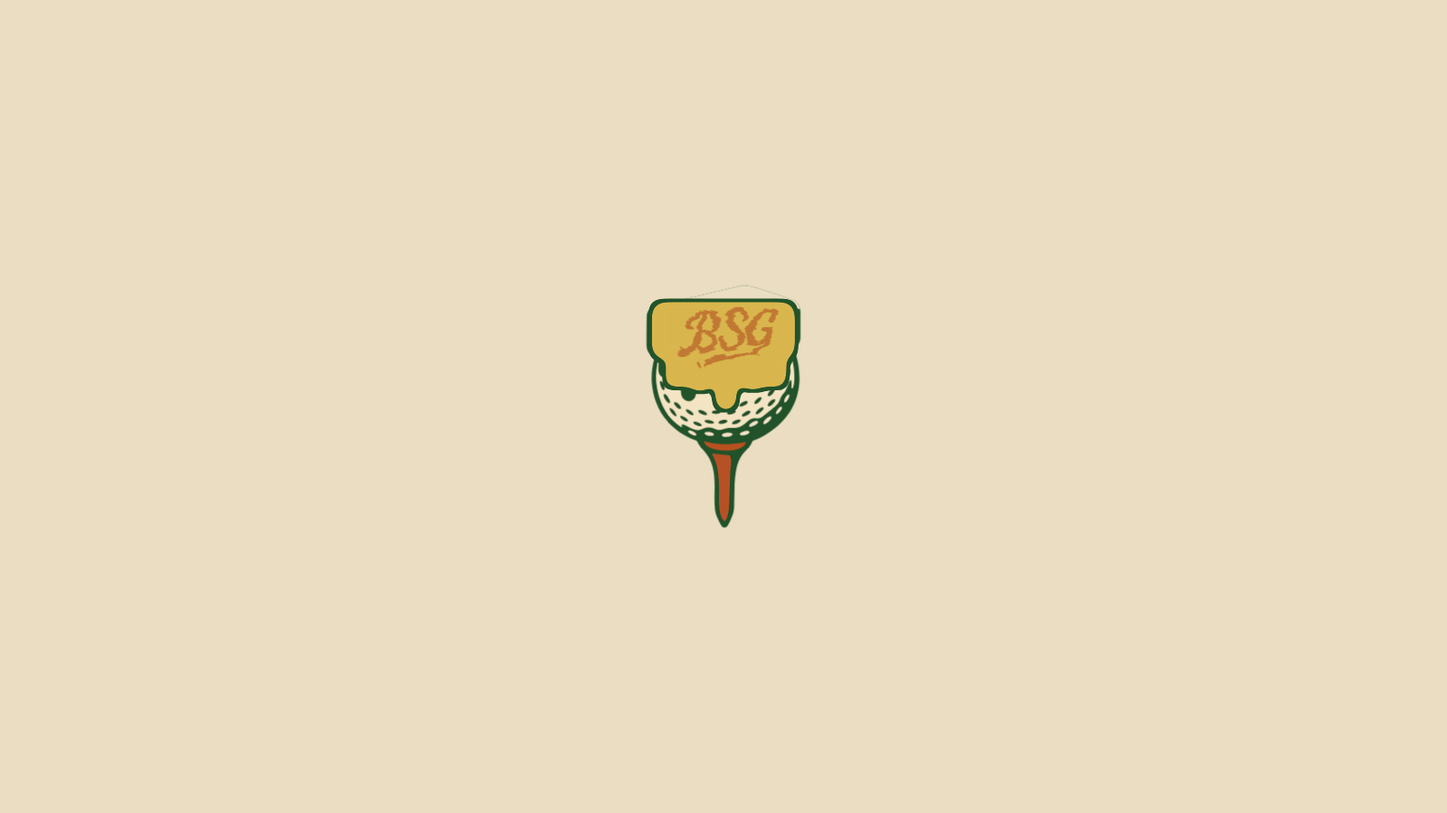
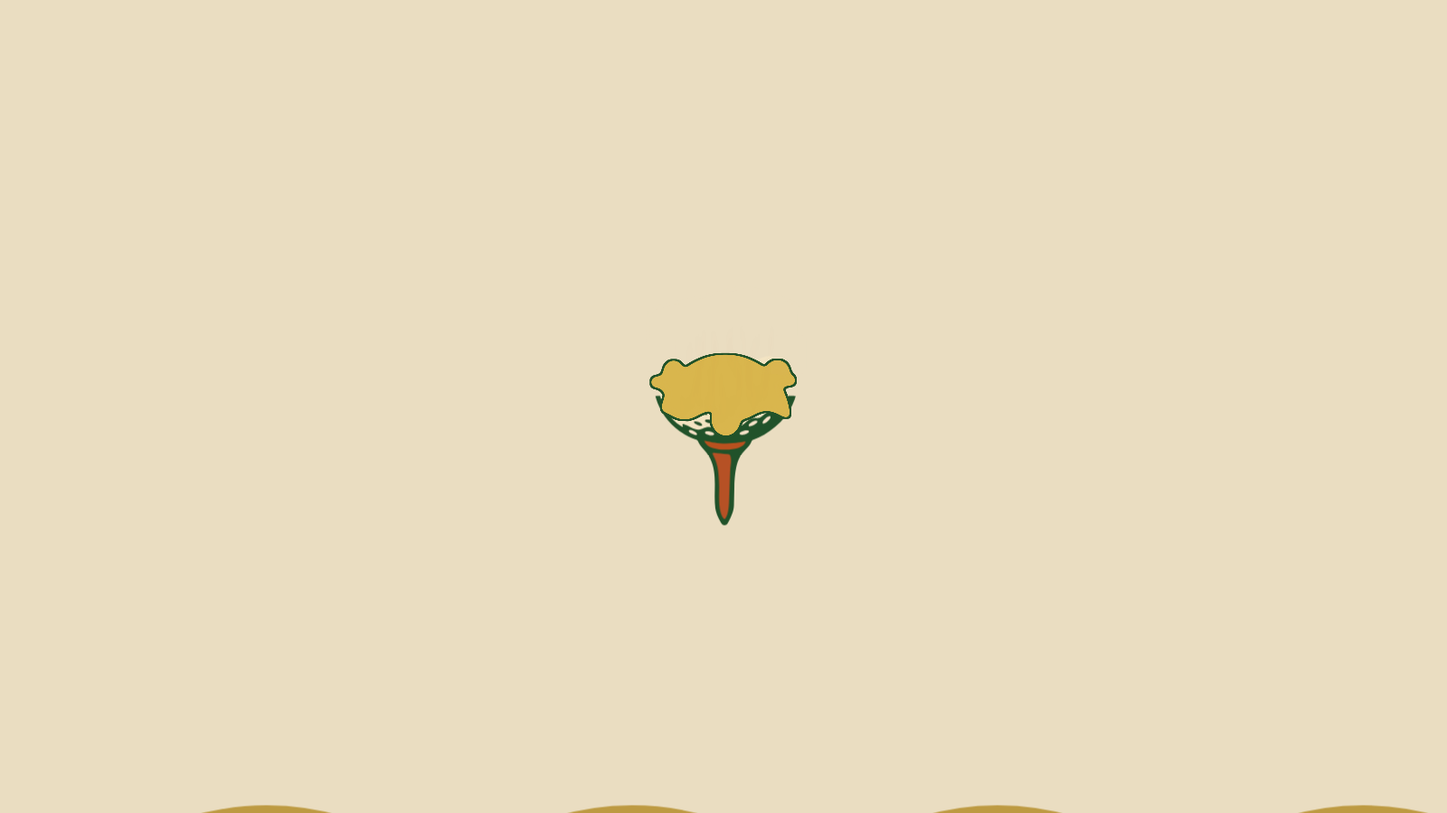
GSAP intro v3.3: melt shrinks inward, final act fully static
Coat dome starts narrower than the ball so its rim never emerges beyond
the melting pat (green side-creep fixed); it widens only in the consume
phase. Camera push completes before the tide, wordmark breathing removed
and scaled to 0.41 with a longer pure fade — zero scale motion at the end.

Claude-Session: https://claude.ai/code/session_01XoixdVZHUDRa8j4FLVb79L

diff --git a/gsap/intro.html b/gsap/intro.html
@@ -102,7 +102,7 @@
       <g id="moltenRim" filter="url(#gooRim)">
     <g class="rPatArt"><path d="M 1567.0794,805.0633000000001 C 1609.861,795.0788000000001 1653.3692,785.0944000000001 1695.4243,775.1099000000002 L 1773.7997,756.2660000000001 C 1786.7239,753.3075000000001 1795.0346,750.5086000000001 1816.691,757.5790000000001 C 1847.8474,767.7821000000001 1879.2848,777.7509000000001 1910.16,788.1884000000001 C 1924.0271,792.9228000000002 1933.4418,800.1880000000001 1932.8479,822.0788000000001 L 1932.9395,880.4629000000001 C 1933.1039,894.1698000000001 1927.05,900.6620000000001 1914.3782,904.4862 C 1910.2658,905.7034000000001 1906.5003,906.3977000000001 1902.3515,907.9258000000001 C 1895.9406,910.3120000000001 1892.821,912.3362000000001 1889.8157,916.5335000000001 C 1884.0892,924.5998000000001 1878.8074,924.3693000000001 1873.9718,922.2053000000001 C 1864.9911,918.3587000000001 1856.2456,920.3220000000001 1847.3936,923.0492000000002 C 1822.4683,930.6670000000001 1796.3467,938.4243000000001 1770.4716,944.9874000000001 C 1748.5101,950.5189000000001 1734.8494,959.2474000000001 1732.5967,983.3319000000001 C 1731.9557,993.8473000000001 1732.7018,997.5278000000001 1733.2058,1003.0662000000001 C 1733.7997,1008.8865000000001 1733.643,1012.6736000000001 1732.737,1015.3946000000001 C 1730.472,1021.8950000000001 1724.8014,1022.7871000000001 1721.8619,1022.2383000000001 C 1715.6676,1021.0531000000001 1711.0879,1015.0366000000001 1710.6117,1004.5662000000001 C 1710.3696,997.7067000000001 1711.018,988.8320000000001 1710.6585,982.3004000000001 C 1710.1535,972.5685000000001 1704.172,964.7667000000001 1695.471,963.1756000000001 C 1685.9475,961.9009000000001 1679.8106,968.3437000000001 1675.9794,975.8955000000001 C 1674.8351,978.1510000000001 1673.9277,981.3335000000001 1672.5458,983.2364000000001 C 1669.9826,986.6215000000001 1666.1585,985.8627000000001 1661.6597,987.2911000000001 C 1658.1005,988.4210000000002 1655.0391,990.7332000000001 1653.0956,993.4099000000001 C 1649.6583,998.5900000000001 1650.127,1004.2156000000001 1650.6581,1010.1445000000001 C 1651.7055,1017.6450000000001 1654.5805,1023.2701000000002 1653.237,1035.3171000000002 C 1652.3229,1042.6851000000001 1646.8384,1045.2468000000001 1642.1275,1044.6924000000001 C 1633.6237,1043.5574000000001 1631.7006,1031.3709000000001 1632.5794,1024.0595 C 1633.4473,1016.7581000000001 1635.9253,1011.4737 1637.9087,1005.7387000000001 C 1640.1665,999.1215000000001 1642.4243,992.4572000000001 1643.3461,987.3634000000001 C 1645.7846,972.8775 1640.0446,964.7726000000001 1628.252,957.9726 L 1603.408,945.0818000000002 C 1595.5328,941.4846000000001 1586.9546,946.1972000000001 1586.8607,955.0195000000001 L 1586.6266,973.7695000000001 C 1586.2966,979.5165000000001 1583.9887,982.5544000000001 1579.5952,982.5354000000001 C 1566.322,982.2596000000001 1573.1141,959.0186000000001 1571.8606,949.0426000000001 C 1570.6344,940.3734000000001 1567.0397,933.8761000000001 1561.3139,929.3322000000001 C 1556.9303,925.9255 1550.2745,924.6287000000001 1546.1957,920.9414000000002 C 1542.9138,917.8797000000001 1541.1881,913.6515 1540.8048,908.5197000000001 C 1540.1254,899.3867000000001 1540.8989,857.4884000000001 1540.946,831.9726 C 1541.49,815.3735000000001 1552.0326,808.5706000000001 1567.0794,805.0633000000001" fill-rule="evenodd"/></g>
     <g clip-path="url(#coatClip)">
-      <ellipse class="rCoat" cx="1742.1" cy="1104.6" rx="201" ry="201"/>
+      <ellipse class="rCoat" cx="1742.1" cy="1104.6" rx="176" ry="176"/>
     </g>
     <ellipse class="rRun" cx="1604" cy="962" rx="28" ry="34" data-drift="-50"/>
 <ellipse class="rRun" cx="1676" cy="962" rx="33" ry="34" data-drift="-20"/>
@@ -113,7 +113,7 @@
       <g id="moltenGold" filter="url(#goo)" fill="#D9B64E">
     <g class="gPatArt"><path d="M 1567.0794,805.0633000000001 C 1609.861,795.0788000000001 1653.3692,785.0944000000001 1695.4243,775.1099000000002 L 1773.7997,756.2660000000001 C 1786.7239,753.3075000000001 1795.0346,750.5086000000001 1816.691,757.5790000000001 C 1847.8474,767.7821000000001 1879.2848,777.7509000000001 1910.16,788.1884000000001 C 1924.0271,792.9228000000002 1933.4418,800.1880000000001 1932.8479,822.0788000000001 L 1932.9395,880.4629000000001 C 1933.1039,894.1698000000001 1927.05,900.6620000000001 1914.3782,904.4862 C 1910.2658,905.7034000000001 1906.5003,906.3977000000001 1902.3515,907.9258000000001 C 1895.9406,910.3120000000001 1892.821,912.3362000000001 1889.8157,916.5335000000001 C 1884.0892,924.5998000000001 1878.8074,924.3693000000001 1873.9718,922.2053000000001 C 1864.9911,918.3587000000001 1856.2456,920.3220000000001 1847.3936,923.0492000000002 C 1822.4683,930.6670000000001 1796.3467,938.4243000000001 1770.4716,944.9874000000001 C 1748.5101,950.5189000000001 1734.8494,959.2474000000001 1732.5967,983.3319000000001 C 1731.9557,993.8473000000001 1732.7018,997.5278000000001 1733.2058,1003.0662000000001 C 1733.7997,1008.8865000000001 1733.643,1012.6736000000001 1732.737,1015.3946000000001 C 1730.472,1021.8950000000001 1724.8014,1022.7871000000001 1721.8619,1022.2383000000001 C 1715.6676,1021.0531000000001 1711.0879,1015.0366000000001 1710.6117,1004.5662000000001 C 1710.3696,997.7067000000001 1711.018,988.8320000000001 1710.6585,982.3004000000001 C 1710.1535,972.5685000000001 1704.172,964.7667000000001 1695.471,963.1756000000001 C 1685.9475,961.9009000000001 1679.8106,968.3437000000001 1675.9794,975.8955000000001 C 1674.8351,978.1510000000001 1673.9277,981.3335000000001 1672.5458,983.2364000000001 C 1669.9826,986.6215000000001 1666.1585,985.8627000000001 1661.6597,987.2911000000001 C 1658.1005,988.4210000000002 1655.0391,990.7332000000001 1653.0956,993.4099000000001 C 1649.6583,998.5900000000001 1650.127,1004.2156000000001 1650.6581,1010.1445000000001 C 1651.7055,1017.6450000000001 1654.5805,1023.2701000000002 1653.237,1035.3171000000002 C 1652.3229,1042.6851000000001 1646.8384,1045.2468000000001 1642.1275,1044.6924000000001 C 1633.6237,1043.5574000000001 1631.7006,1031.3709000000001 1632.5794,1024.0595 C 1633.4473,1016.7581000000001 1635.9253,1011.4737 1637.9087,1005.7387000000001 C 1640.1665,999.1215000000001 1642.4243,992.4572000000001 1643.3461,987.3634000000001 C 1645.7846,972.8775 1640.0446,964.7726000000001 1628.252,957.9726 L 1603.408,945.0818000000002 C 1595.5328,941.4846000000001 1586.9546,946.1972000000001 1586.8607,955.0195000000001 L 1586.6266,973.7695000000001 C 1586.2966,979.5165000000001 1583.9887,982.5544000000001 1579.5952,982.5354000000001 C 1566.322,982.2596000000001 1573.1141,959.0186000000001 1571.8606,949.0426000000001 C 1570.6344,940.3734000000001 1567.0397,933.8761000000001 1561.3139,929.3322000000001 C 1556.9303,925.9255 1550.2745,924.6287000000001 1546.1957,920.9414000000002 C 1542.9138,917.8797000000001 1541.1881,913.6515 1540.8048,908.5197000000001 C 1540.1254,899.3867000000001 1540.8989,857.4884000000001 1540.946,831.9726 C 1541.49,815.3735000000001 1552.0326,808.5706000000001 1567.0794,805.0633000000001" fill-rule="evenodd"/></g>
     <g clip-path="url(#coatClip)">
-      <ellipse class="gCoat" cx="1742.1" cy="1104.6" rx="201" ry="201"/>
+      <ellipse class="gCoat" cx="1742.1" cy="1104.6" rx="176" ry="176"/>
     </g>
     <ellipse class="gRun" cx="1604" cy="962" rx="28" ry="34" data-drift="-50"/>
 <ellipse class="gRun" cx="1676" cy="962" rx="33" ry="34" data-drift="-20"/>
@@ -133,7 +133,7 @@
   </g>
 
   <!-- wordmark: the sole hero of the final act, centered -->
-  <g id="wmMove" transform="translate(518.8,280.3) scale(0.44)" fill="#EADDC1">
+  <g id="wmMove" transform="translate(538.0,291.8) scale(0.41)" fill="#EADDC1">
     <g id="wmButter"><path d="M 259.7692,201.6514000000002 C 259.3474,210.423 260.8404,221.3208000000002 269.401,229.8479000000002 C 283.8932,244.09090000000015 307.5814,240.0436000000002 307.7691,233.65120000000002 C 307.8071,232.26930000000016 307.0431,230.79560000000015 305.9705,228.52250000000004 C 300.7264,218.46620000000007 294.5653,192.66640000000007 327.5246,163.4067 C 337.2083,155.14790000000016 349.0648,148.9996000000001 360.3872,145.2695000000001 C 386.4832,136.59890000000019 431.9107,132.24370000000022 455.989,148.4313000000002 C 480.6074,164.98160000000007 475.77,199.67420000000016 442.0003,211.3981000000001 C 421.9676,218.35260000000017 399.7689,215.72860000000014 399.7689,223.6514000000002 C 399.7689,229.30710000000022 410.2486,227.97250000000008 421.8435,236.3189000000002 C 447.5752,254.97400000000016 435.5861,297.73710000000005 396.8864,298.9090000000001 C 367.2445,299.65880000000016 355.7509,292.2759000000001 347.4643,288.6278000000002 C 351.9626,283.5458000000001 359.411,274.3628000000001 364.7764,266.65840000000003 C 384.9043,238.1418000000001 402.0758,191.4529 424.5826,169.09750000000008 C 427.4855,166.21380000000022 433.3127,162.0186000000001 428.343,158.8996000000002 C 418.6823,152.93950000000018 402.2405,156.6482000000001 390.026,166.90800000000013 C 368.1147,186.0282000000002 355.1406,210.7909000000002 342.2923,236.37760000000003 C 334.6503,251.32960000000003 323.5493,268.49350000000004 310.1372,282.2696000000001 C 282.7474,309.91020000000003 258.0199,285.6514000000002 253.7691,285.6514000000002 C 244.9392,285.67520000000013 247.1794,305.1160000000002 261.5244,316.1490000000001 C 276.8859,327.7524000000001 301.0224,324.6886000000002 316.6464,316.1813000000002 C 321.7215,313.4544000000001 326.8431,309.9896000000001 333.144,305.7605000000001 C 359.1882,322.9522000000002 405.8612,327.4131000000002 435.8472,315.6238000000001 C 446.0383,311.74440000000004 458.282,303.76840000000016 464.531,294.78970000000004 C 484.9243,265.0381000000002 472.0054,237.89750000000004 455.2534,229.55770000000007 C 453.8353,228.9380000000001 453.8591,227.9195000000002 455.2534,227.55780000000004 C 466.7066,225.12430000000018 489.7613,215.31950000000006 501.317,198.62800000000016 C 510.1121,185.5844000000002 511.3568,170.11350000000016 505.2866,156.88160000000016 C 499.1511,144.18210000000022 487.8737,136.04440000000022 475.6572,130.34030000000007 C 454.1888,120.31630000000018 427.1618,117.3778000000002 402.7691,117.65130000000022 C 365.1919,118.3072000000002 335.8077,128.00790000000006 312.1843,140.09000000000015 C 293.6679,149.34000000000015 261.5037,173.95810000000006 259.7692,201.6514000000002" fill-rule="evenodd"/>
 <path d="M 848.2442,258.8903 C 850.6298,250.9947000000002 856.1075,240.73410000000013 859.5927,235.08550000000014 C 864.4022,227.14930000000004 870.3045,221.58850000000007 875.408,218.9728 C 883.3113,215.00380000000018 890.3239,216.42560000000003 891.7047,222.55130000000008 C 893.8426,234.34000000000015 880.9319,249.50620000000004 869.1746,256.01160000000004 C 863.4268,259.2035000000001 855.6395,261.41200000000003 850.2894,261.69600000000014 C 847.6347,261.81770000000006 847.5041,261.3111000000001 848.2442,258.8903 M 685.3195,292.49530000000004 C 678.6227,293.1161000000002 669.3812,290.5131000000001 672.0987,278.5951 C 674.3426,268.71260000000007 696.1017,227.4150000000002 699.1166,221.4761000000001 C 700.8585,218.15210000000002 700.8673,218.57580000000007 706.4379,218.52980000000002 C 720.1939,218.53120000000013 745.3514,218.4036000000001 760.0694,218.39430000000016 C 761.8626,218.38120000000004 762.2586,218.50310000000013 761.021,221.06510000000003 C 753.9077,234.9299000000001 746.6956,250.58280000000013 733.8776,264.4003 C 725.4969,273.4598000000001 705.9648,290.4561000000001 685.3195,292.49530000000004 M 680.6517,198.97950000000014 C 667.9434,199.49500000000012 649.5347,195.36870000000022 649.7691,212.65130000000022 C 650.3083,220.91200000000003 658.9037,218.97710000000006 668.4024,218.97710000000006 C 670.3302,218.99880000000007 670.8212,219.4856000000002 668.9049,222.95720000000006 L 660.0427,239.3661000000002 C 654.3703,250.1777000000002 649.4428,262.009 639.9828,272.8180000000002 C 634.5822,278.89020000000005 628.4514,283.9398000000001 619.34,288.0500000000002 C 616.6324,289.1666 612.4462,290.40280000000007 608.4094,289.6491000000001 C 604.1812,288.6722000000002 601.9722,285.35390000000007 601.7769,281.36080000000015 C 601.3848,272.9773 606.9572,260.83180000000016 611.7035,250.69960000000015 C 616.758,240.2293000000002 624.5796,225.3578 629.8758,215.32070000000022 C 633.9628,207.34900000000016 634.7523,201.89380000000006 624.3242,199.26780000000008 C 619.6612,198.14070000000015 612.8331,197.3538000000001 608.381,200.80280000000016 C 601.3006,206.69680000000017 595.7062,220.08460000000014 592.1082,227.01020000000017 C 582.0508,247.15800000000013 569.9537,273.23760000000016 546.8471,288.1512 C 539.0963,293.0245000000002 528.558,294.7092 528.5112,282.14380000000006 C 528.495,273.13070000000016 537.7856,255.27420000000006 545.6591,241.14340000000016 C 550.8023,232.07370000000014 557.5762,220.5101000000002 563.2027,210.5204000000001 C 565.1566,207.04030000000012 564.8689,202.46460000000002 557.7364,199.69840000000022 C 546.4672,195.6020000000001 538.3882,202.15800000000013 531.9675,211.8497000000002 C 528.431,217.2094000000002 525.6332,221.56190000000015 521.077,228.9593000000002 C 511.2125,246.68460000000005 492.1166,277.8453000000002 497.3355,299.13210000000004 C 502.2306,317.72950000000014 522.4266,319.10810000000015 537.3249,312.58220000000006 C 552.7106,305.08310000000006 562.0181,295.4485000000002 572.5111,284.4325000000001 C 568.4777,305.3022000000001 586.0485,336.3498000000002 632.1699,298.13030000000003 C 635.1783,295.51210000000015 639.3909,291.63530000000014 641.488,289.3392000000001 C 643.4785,322.6562000000001 677.2626,319.5276000000001 697.2137,310.0083000000002 C 710.0178,303.98580000000015 724.9612,291.44990000000007 734.2965,282.6319000000001 C 733.4994,303.62530000000015 740.3136,316.5575000000001 760.3316,316.2763000000002 C 773.1386,315.9716000000001 781.7377,311.22230000000013 789.7961,306.4048 C 799.1541,300.7433000000001 808.5129,292.52380000000016 813.5813,287.9480000000001 C 817.0033,320.37660000000005 851.9984,321.65020000000004 878.1508,308.5254000000002 C 887.811,303.77600000000007 894.9623,297.90470000000005 901.6257,292.46230000000014 C 902.4069,291.92920000000004 903.4929,292.24250000000006 903.187,293.20600000000013 C 902.2694,296.1333000000002 896.0879,307.26840000000016 898.7284,312.5091000000002 C 901.2498,317.5136 912.2547,314.7785000000001 915.874,313.59640000000013 C 919.6809,312.3560000000002 922.3948,310.5373000000002 924.7518,308.0816000000002 C 930.7814,301.54140000000007 934.3281,290.8765000000001 943.4798,276.8597000000002 C 954.6109,257.7012000000002 971.2397,245.365 987.4602,231.52630000000022 C 988.3585,232.33990000000017 989.8021,233.98450000000003 992.3888,235.54050000000007 C 998.7982,239.10680000000002 1005.8343,238.91140000000019 1012.235,237.10180000000014 C 1021.7993,234.30910000000017 1027.2882999999997,227.59580000000005 1029.0112,220.84730000000013 C 1031.6047,210.49610000000007 1025.0563,199.08850000000007 1010.7689,199.65130000000022 C 1002.4265,200.24880000000007 995.8759,205.41560000000004 991.4593,209.3416000000002 C 982.2019,217.58500000000004 973.9083,225.8162000000002 965.7556,233.44990000000007 C 964.7904,234.3465000000001 963.754,233.8624000000002 964.2047,232.7179000000001 C 968.2311,223.36260000000016 978.2158,209.54420000000005 977.2849,202.83720000000017 C 976.4617,199.75930000000017 972.7027,197.14350000000013 963.769,197.14350000000013 C 958.8912,197.16850000000022 954.3682,197.71350000000007 951.5137,199.70090000000005 C 946.1577,203.81400000000008 944.0113,210.92330000000015 939.7638,219.06040000000007 C 934.4367,229.71440000000007 929.7763,239.4050000000002 922.191,249.2528000000002 C 915.5971,258.08500000000004 909.1227,265.6898000000001 898.5297,274.1073000000001 C 887.4227,282.6835000000001 875.0775,291.0108 859.6052,290.6358 C 851.3923,290.2488000000001 846.1831,285.3003000000001 846.1831,276.60450000000014 C 853.3363,276.55780000000004 863.6173,275.03840000000014 870.1999,273.2194000000002 C 889.1379,267.77210000000014 909.9156,252.87720000000013 915.4811,232.38490000000002 C 919.3598,217.3217000000002 913.6661,201.1748 892.7691,199.65130000000022 C 876.405,198.76070000000004 860.4,204.34450000000015 846.4518,215.33400000000006 C 833.5091,226.3112000000001 823.8637,238.77480000000014 818.1388,255.02100000000019 C 815.6001,262.40020000000004 815.4626,267.24710000000005 813.5793,270.53700000000003 C 812.0483,272.9947000000002 808.8089,275.4393 802.4216,280.1980000000001 C 794.7133,285.99210000000016 776.3683,296.58090000000016 767.9401,289.5422000000001 C 762.2371,284.21350000000007 766.5925,272.67520000000013 771.2147,263.07590000000005 C 778.174,248.6241 785.5809,234.19960000000015 792.8269,219.88490000000002 C 793.3272,218.9574 793.8811,218.61910000000012 795.3548,218.6328000000001 C 801.4946,218.65960000000018 813.6777,218.7831000000001 820.9236,218.66580000000022 C 824.724,218.57940000000008 828.2092,218.2962 830.5948,215.0331000000001 C 832.9156,211.69010000000003 833.7691,207.02030000000013 833.7691,203.65130000000022 C 833.5704,200.09400000000005 831.4574,198.93250000000012 827.7917,198.95850000000019 L 804.4875,199.19010000000003 C 809.2103,190.26430000000005 813.9243,182.05330000000004 817.2147,175.51570000000015 C 819.7095,170.62970000000018 820.7186,166.73940000000016 817.8454,164.39340000000016 C 814.4753,161.7378000000001 805.216,160.1786000000002 799.2388,160.7518 C 796.284,161.10580000000004 793.6747,162.10120000000006 791.3078,164.75910000000022 C 788.7648,167.6944000000001 786.2295,172.62920000000008 783.8427,176.9869000000001 C 780.0199,184.3036000000002 775.3992,192.32520000000022 771.6869,199.20230000000015 L 712.2223,199.35420000000022 C 717.8681,188.5693000000001 726.7011,173.9126000000001 727.1481,168.5286000000001 C 727.3298,164.2610000000002 724.0173,161.27360000000022 710.5031,160.70810000000006 C 706.0561,160.5558000000001 702.8402,161.16560000000004 699.7966,164.28740000000016 C 696.2905,168.04960000000005 693.4116,173.1817000000001 691.3355,176.91290000000004 C 688.0827,183.19680000000017 685.3133,188.98390000000018 680.6517,198.97950000000014" fill-rule="evenodd"/></g>
     <g id="wmSticks"><path d="M 381.8112,386.86660000000006 C 382.1862,442.2735 450.0173,457.9235000000001 428.1103,503.3686 C 420.3632,517.5497000000001 407.8327,526.1401000000001 389.5299,527.1011000000001 C 374.0236,527.7573000000001 357.3601,523.3234000000001 349.7607,505.82370000000014 C 341.7817,486.75930000000017 348.7646,466.2968000000001 366.2235,453.5210000000002 C 370.5282,450.3343000000002 376.5302,447.71090000000004 376.5067,443.9136000000001 C 376.3426,436.6169000000002 351.2186,432.9480000000001 330.9755,446.0308 C 302.9309,464.79840000000013 300.1371,506.5289 331.0129,529.6415000000001 C 355.6664,548.4865000000001 397.7371,548.6608000000001 426.9776,534.6033000000001 C 459.1973,518.9620000000001 476.689,485.1994000000002 461.4854,451.19240000000013 C 448.4169,424.1753000000001 415.7323,402.2366000000002 418.1318,374.8434000000002 C 420.2311,357.0425 436.6911,348.6119000000001 452.7213,349.7925 C 460.2767,350.3326000000002 468.3849,352.98160000000007 476.0719,360.7468000000001 C 496.11,382.1376 474.569,403.8668 485.8112,403.8668 C 506.649,403.6795000000002 525.054,365.06280000000015 498.172,343.1388000000002 C 483.8562,332.1186 462.6043,330.9529 449.2335,331.6328000000001 C 417.3117,333.60180000000014 382.233,353.1437000000001 381.8112,386.86660000000006" fill-rule="evenodd"/>
@@ -163,8 +163,8 @@
 const $$ = (s) => gsap.utils.toArray(s);
 
 gsap.set("#badgeMove", { autoAlpha: 0, scale: 0.92, transformOrigin: "50% 50%" });
-gsap.set(["#wmButter", "#wmSticks"], { autoAlpha: 0, y: 85 });
-gsap.set(".golfLetter", { autoAlpha: 0, y: 45 });
+gsap.set(["#wmButter", "#wmSticks"], { autoAlpha: 0, y: 40 });
+gsap.set(".golfLetter", { autoAlpha: 0, y: 24 });
 gsap.set(".drop", { autoAlpha: 0 });
 gsap.set("#coatWave", { y: -185 });
 gsap.set(["#pondBack", "#pondFront", "#tide"], { y: 920 });
@@ -216,6 +216,7 @@ $$(".rRun, .gRun").forEach((r) => {
 tl.addLabel("consume", 3.3)
   // the coat swallows the whole ball
   .to("#coatWave", { y: 165, duration: 0.9, ease: "power1.inOut" }, "consume")
+  .to(".rCoat, .gCoat", { attr: { rx: 204, ry: 204 }, duration: 0.6, ease: "sine.inOut" }, "consume+=0.3")
   // pond arrives to receive the cascade
   .to("#pondBack", { y: 585, duration: 1.3, ease: "power1.inOut" }, "consume+=0.1")
   .to("#pondFront", { y: 606, duration: 1.3, ease: "power1.inOut" }, "consume+=0.22")
@@ -246,16 +247,15 @@ tl.addLabel("tideUp", 5.3)
 
 // ---- beat 5: wordmark rises alone, centered (6.5 - 8.3s)
 tl.addLabel("type", 6.7)
-  .to("#wmButter", { autoAlpha: 1, y: 0, duration: 1.35, ease: "sine.out" }, "type")
-  .to("#wmSticks", { autoAlpha: 1, y: 0, duration: 1.35, ease: "sine.out" }, "type+=0.18")
-  .to(".golfLetter", { autoAlpha: 1, y: 0, duration: 1.0, ease: "sine.out", stagger: 0.09 }, "type+=0.5");
+  .to("#wmButter", { autoAlpha: 1, y: 0, duration: 1.6, ease: "sine.out" }, "type")
+  .to("#wmSticks", { autoAlpha: 1, y: 0, duration: 1.6, ease: "sine.out" }, "type+=0.15")
+  .to(".golfLetter", { autoAlpha: 1, y: 0, duration: 1.2, ease: "sine.out", stagger: 0.1 }, "type+=0.45");
 
 // ---- beat 6: breathing hold (8.5 - 9.4s)
-tl.to("#wmMove", { scale: 1.007, transformOrigin: "50% 50%", duration: 0.5, ease: "sine.inOut" }, 8.8)
-  .to("#wmMove", { scale: 1.0, duration: 0.5, ease: "sine.inOut" }, 9.3);
+tl.to({}, { duration: 0.1 }, 9.7);  // quiet hold to the end
 
 // slow camera push, whole film
-tl.to("svg", { scale: 1.0, duration: 9.8, ease: "sine.out" }, 0);
+tl.to("svg", { scale: 1.0, duration: 5.5, ease: "sine.out" }, 0);
 
 // reduced motion: land on the finished lockup immediately
 if (window.matchMedia("(prefers-reduced-motion: reduce)").matches) {

diff --git a/gsap/intro_artifact.html b/gsap/intro_artifact.html
@@ -96,7 +96,7 @@
       <g id="moltenRim" filter="url(#gooRim)">
     <g class="rPatArt"><path d="M 1567.0794,805.0633000000001 C 1609.861,795.0788000000001 1653.3692,785.0944000000001 1695.4243,775.1099000000002 L 1773.7997,756.2660000000001 C 1786.7239,753.3075000000001 1795.0346,750.5086000000001 1816.691,757.5790000000001 C 1847.8474,767.7821000000001 1879.2848,777.7509000000001 1910.16,788.1884000000001 C 1924.0271,792.9228000000002 1933.4418,800.1880000000001 1932.8479,822.0788000000001 L 1932.9395,880.4629000000001 C 1933.1039,894.1698000000001 1927.05,900.6620000000001 1914.3782,904.4862 C 1910.2658,905.7034000000001 1906.5003,906.3977000000001 1902.3515,907.9258000000001 C 1895.9406,910.3120000000001 1892.821,912.3362000000001 1889.8157,916.5335000000001 C 1884.0892,924.5998000000001 1878.8074,924.3693000000001 1873.9718,922.2053000000001 C 1864.9911,918.3587000000001 1856.2456,920.3220000000001 1847.3936,923.0492000000002 C 1822.4683,930.6670000000001 1796.3467,938.4243000000001 1770.4716,944.9874000000001 C 1748.5101,950.5189000000001 1734.8494,959.2474000000001 1732.5967,983.3319000000001 C 1731.9557,993.8473000000001 1732.7018,997.5278000000001 1733.2058,1003.0662000000001 C 1733.7997,1008.8865000000001 1733.643,1012.6736000000001 1732.737,1015.3946000000001 C 1730.472,1021.8950000000001 1724.8014,1022.7871000000001 1721.8619,1022.2383000000001 C 1715.6676,1021.0531000000001 1711.0879,1015.0366000000001 1710.6117,1004.5662000000001 C 1710.3696,997.7067000000001 1711.018,988.8320000000001 1710.6585,982.3004000000001 C 1710.1535,972.5685000000001 1704.172,964.7667000000001 1695.471,963.1756000000001 C 1685.9475,961.9009000000001 1679.8106,968.3437000000001 1675.9794,975.8955000000001 C 1674.8351,978.1510000000001 1673.9277,981.3335000000001 1672.5458,983.2364000000001 C 1669.9826,986.6215000000001 1666.1585,985.8627000000001 1661.6597,987.2911000000001 C 1658.1005,988.4210000000002 1655.0391,990.7332000000001 1653.0956,993.4099000000001 C 1649.6583,998.5900000000001 1650.127,1004.2156000000001 1650.6581,1010.1445000000001 C 1651.7055,1017.6450000000001 1654.5805,1023.2701000000002 1653.237,1035.3171000000002 C 1652.3229,1042.6851000000001 1646.8384,1045.2468000000001 1642.1275,1044.6924000000001 C 1633.6237,1043.5574000000001 1631.7006,1031.3709000000001 1632.5794,1024.0595 C 1633.4473,1016.7581000000001 1635.9253,1011.4737 1637.9087,1005.7387000000001 C 1640.1665,999.1215000000001 1642.4243,992.4572000000001 1643.3461,987.3634000000001 C 1645.7846,972.8775 1640.0446,964.7726000000001 1628.252,957.9726 L 1603.408,945.0818000000002 C 1595.5328,941.4846000000001 1586.9546,946.1972000000001 1586.8607,955.0195000000001 L 1586.6266,973.7695000000001 C 1586.2966,979.5165000000001 1583.9887,982.5544000000001 1579.5952,982.5354000000001 C 1566.322,982.2596000000001 1573.1141,959.0186000000001 1571.8606,949.0426000000001 C 1570.6344,940.3734000000001 1567.0397,933.8761000000001 1561.3139,929.3322000000001 C 1556.9303,925.9255 1550.2745,924.6287000000001 1546.1957,920.9414000000002 C 1542.9138,917.8797000000001 1541.1881,913.6515 1540.8048,908.5197000000001 C 1540.1254,899.3867000000001 1540.8989,857.4884000000001 1540.946,831.9726 C 1541.49,815.3735000000001 1552.0326,808.5706000000001 1567.0794,805.0633000000001" fill-rule="evenodd"/></g>
     <g clip-path="url(#coatClip)">
-      <ellipse class="rCoat" cx="1742.1" cy="1104.6" rx="201" ry="201"/>
+      <ellipse class="rCoat" cx="1742.1" cy="1104.6" rx="176" ry="176"/>
     </g>
     <ellipse class="rRun" cx="1604" cy="962" rx="28" ry="34" data-drift="-50"/>
 <ellipse class="rRun" cx="1676" cy="962" rx="33" ry="34" data-drift="-20"/>
@@ -107,7 +107,7 @@
       <g id="moltenGold" filter="url(#goo)" fill="#D9B64E">
     <g class="gPatArt"><path d="M 1567.0794,805.0633000000001 C 1609.861,795.0788000000001 1653.3692,785.0944000000001 1695.4243,775.1099000000002 L 1773.7997,756.2660000000001 C 1786.7239,753.3075000000001 1795.0346,750.5086000000001 1816.691,757.5790000000001 C 1847.8474,767.7821000000001 1879.2848,777.7509000000001 1910.16,788.1884000000001 C 1924.0271,792.9228000000002 1933.4418,800.1880000000001 1932.8479,822.0788000000001 L 1932.9395,880.4629000000001 C 1933.1039,894.1698000000001 1927.05,900.6620000000001 1914.3782,904.4862 C 1910.2658,905.7034000000001 1906.5003,906.3977000000001 1902.3515,907.9258000000001 C 1895.9406,910.3120000000001 1892.821,912.3362000000001 1889.8157,916.5335000000001 C 1884.0892,924.5998000000001 1878.8074,924.3693000000001 1873.9718,922.2053000000001 C 1864.9911,918.3587000000001 1856.2456,920.3220000000001 1847.3936,923.0492000000002 C 1822.4683,930.6670000000001 1796.3467,938.4243000000001 1770.4716,944.9874000000001 C 1748.5101,950.5189000000001 1734.8494,959.2474000000001 1732.5967,983.3319000000001 C 1731.9557,993.8473000000001 1732.7018,997.5278000000001 1733.2058,1003.0662000000001 C 1733.7997,1008.8865000000001 1733.643,1012.6736000000001 1732.737,1015.3946000000001 C 1730.472,1021.8950000000001 1724.8014,1022.7871000000001 1721.8619,1022.2383000000001 C 1715.6676,1021.0531000000001 1711.0879,1015.0366000000001 1710.6117,1004.5662000000001 C 1710.3696,997.7067000000001 1711.018,988.8320000000001 1710.6585,982.3004000000001 C 1710.1535,972.5685000000001 1704.172,964.7667000000001 1695.471,963.1756000000001 C 1685.9475,961.9009000000001 1679.8106,968.3437000000001 1675.9794,975.8955000000001 C 1674.8351,978.1510000000001 1673.9277,981.3335000000001 1672.5458,983.2364000000001 C 1669.9826,986.6215000000001 1666.1585,985.8627000000001 1661.6597,987.2911000000001 C 1658.1005,988.4210000000002 1655.0391,990.7332000000001 1653.0956,993.4099000000001 C 1649.6583,998.5900000000001 1650.127,1004.2156000000001 1650.6581,1010.1445000000001 C 1651.7055,1017.6450000000001 1654.5805,1023.2701000000002 1653.237,1035.3171000000002 C 1652.3229,1042.6851000000001 1646.8384,1045.2468000000001 1642.1275,1044.6924000000001 C 1633.6237,1043.5574000000001 1631.7006,1031.3709000000001 1632.5794,1024.0595 C 1633.4473,1016.7581000000001 1635.9253,1011.4737 1637.9087,1005.7387000000001 C 1640.1665,999.1215000000001 1642.4243,992.4572000000001 1643.3461,987.3634000000001 C 1645.7846,972.8775 1640.0446,964.7726000000001 1628.252,957.9726 L 1603.408,945.0818000000002 C 1595.5328,941.4846000000001 1586.9546,946.1972000000001 1586.8607,955.0195000000001 L 1586.6266,973.7695000000001 C 1586.2966,979.5165000000001 1583.9887,982.5544000000001 1579.5952,982.5354000000001 C 1566.322,982.2596000000001 1573.1141,959.0186000000001 1571.8606,949.0426000000001 C 1570.6344,940.3734000000001 1567.0397,933.8761000000001 1561.3139,929.3322000000001 C 1556.9303,925.9255 1550.2745,924.6287000000001 1546.1957,920.9414000000002 C 1542.9138,917.8797000000001 1541.1881,913.6515 1540.8048,908.5197000000001 C 1540.1254,899.3867000000001 1540.8989,857.4884000000001 1540.946,831.9726 C 1541.49,815.3735000000001 1552.0326,808.5706000000001 1567.0794,805.0633000000001" fill-rule="evenodd"/></g>
     <g clip-path="url(#coatClip)">
-      <ellipse class="gCoat" cx="1742.1" cy="1104.6" rx="201" ry="201"/>
+      <ellipse class="gCoat" cx="1742.1" cy="1104.6" rx="176" ry="176"/>
     </g>
     <ellipse class="gRun" cx="1604" cy="962" rx="28" ry="34" data-drift="-50"/>
 <ellipse class="gRun" cx="1676" cy="962" rx="33" ry="34" data-drift="-20"/>
@@ -127,7 +127,7 @@
   </g>
 
   <!-- wordmark: the sole hero of the final act, centered -->
-  <g id="wmMove" transform="translate(518.8,280.3) scale(0.44)" fill="#EADDC1">
+  <g id="wmMove" transform="translate(538.0,291.8) scale(0.41)" fill="#EADDC1">
     <g id="wmButter"><path d="M 259.7692,201.6514000000002 C 259.3474,210.423 260.8404,221.3208000000002 269.401,229.8479000000002 C 283.8932,244.09090000000015 307.5814,240.0436000000002 307.7691,233.65120000000002 C 307.8071,232.26930000000016 307.0431,230.79560000000015 305.9705,228.52250000000004 C 300.7264,218.46620000000007 294.5653,192.66640000000007 327.5246,163.4067 C 337.2083,155.14790000000016 349.0648,148.9996000000001 360.3872,145.2695000000001 C 386.4832,136.59890000000019 431.9107,132.24370000000022 455.989,148.4313000000002 C 480.6074,164.98160000000007 475.77,199.67420000000016 442.0003,211.3981000000001 C 421.9676,218.35260000000017 399.7689,215.72860000000014 399.7689,223.6514000000002 C 399.7689,229.30710000000022 410.2486,227.97250000000008 421.8435,236.3189000000002 C 447.5752,254.97400000000016 435.5861,297.73710000000005 396.8864,298.9090000000001 C 367.2445,299.65880000000016 355.7509,292.2759000000001 347.4643,288.6278000000002 C 351.9626,283.5458000000001 359.411,274.3628000000001 364.7764,266.65840000000003 C 384.9043,238.1418000000001 402.0758,191.4529 424.5826,169.09750000000008 C 427.4855,166.21380000000022 433.3127,162.0186000000001 428.343,158.8996000000002 C 418.6823,152.93950000000018 402.2405,156.6482000000001 390.026,166.90800000000013 C 368.1147,186.0282000000002 355.1406,210.7909000000002 342.2923,236.37760000000003 C 334.6503,251.32960000000003 323.5493,268.49350000000004 310.1372,282.2696000000001 C 282.7474,309.91020000000003 258.0199,285.6514000000002 253.7691,285.6514000000002 C 244.9392,285.67520000000013 247.1794,305.1160000000002 261.5244,316.1490000000001 C 276.8859,327.7524000000001 301.0224,324.6886000000002 316.6464,316.1813000000002 C 321.7215,313.4544000000001 326.8431,309.9896000000001 333.144,305.7605000000001 C 359.1882,322.9522000000002 405.8612,327.4131000000002 435.8472,315.6238000000001 C 446.0383,311.74440000000004 458.282,303.76840000000016 464.531,294.78970000000004 C 484.9243,265.0381000000002 472.0054,237.89750000000004 455.2534,229.55770000000007 C 453.8353,228.9380000000001 453.8591,227.9195000000002 455.2534,227.55780000000004 C 466.7066,225.12430000000018 489.7613,215.31950000000006 501.317,198.62800000000016 C 510.1121,185.5844000000002 511.3568,170.11350000000016 505.2866,156.88160000000016 C 499.1511,144.18210000000022 487.8737,136.04440000000022 475.6572,130.34030000000007 C 454.1888,120.31630000000018 427.1618,117.3778000000002 402.7691,117.65130000000022 C 365.1919,118.3072000000002 335.8077,128.00790000000006 312.1843,140.09000000000015 C 293.6679,149.34000000000015 261.5037,173.95810000000006 259.7692,201.6514000000002" fill-rule="evenodd"/>
 <path d="M 848.2442,258.8903 C 850.6298,250.9947000000002 856.1075,240.73410000000013 859.5927,235.08550000000014 C 864.4022,227.14930000000004 870.3045,221.58850000000007 875.408,218.9728 C 883.3113,215.00380000000018 890.3239,216.42560000000003 891.7047,222.55130000000008 C 893.8426,234.34000000000015 880.9319,249.50620000000004 869.1746,256.01160000000004 C 863.4268,259.2035000000001 855.6395,261.41200000000003 850.2894,261.69600000000014 C 847.6347,261.81770000000006 847.5041,261.3111000000001 848.2442,258.8903 M 685.3195,292.49530000000004 C 678.6227,293.1161000000002 669.3812,290.5131000000001 672.0987,278.5951 C 674.3426,268.71260000000007 696.1017,227.4150000000002 699.1166,221.4761000000001 C 700.8585,218.15210000000002 700.8673,218.57580000000007 706.4379,218.52980000000002 C 720.1939,218.53120000000013 745.3514,218.4036000000001 760.0694,218.39430000000016 C 761.8626,218.38120000000004 762.2586,218.50310000000013 761.021,221.06510000000003 C 753.9077,234.9299000000001 746.6956,250.58280000000013 733.8776,264.4003 C 725.4969,273.4598000000001 705.9648,290.4561000000001 685.3195,292.49530000000004 M 680.6517,198.97950000000014 C 667.9434,199.49500000000012 649.5347,195.36870000000022 649.7691,212.65130000000022 C 650.3083,220.91200000000003 658.9037,218.97710000000006 668.4024,218.97710000000006 C 670.3302,218.99880000000007 670.8212,219.4856000000002 668.9049,222.95720000000006 L 660.0427,239.3661000000002 C 654.3703,250.1777000000002 649.4428,262.009 639.9828,272.8180000000002 C 634.5822,278.89020000000005 628.4514,283.9398000000001 619.34,288.0500000000002 C 616.6324,289.1666 612.4462,290.40280000000007 608.4094,289.6491000000001 C 604.1812,288.6722000000002 601.9722,285.35390000000007 601.7769,281.36080000000015 C 601.3848,272.9773 606.9572,260.83180000000016 611.7035,250.69960000000015 C 616.758,240.2293000000002 624.5796,225.3578 629.8758,215.32070000000022 C 633.9628,207.34900000000016 634.7523,201.89380000000006 624.3242,199.26780000000008 C 619.6612,198.14070000000015 612.8331,197.3538000000001 608.381,200.80280000000016 C 601.3006,206.69680000000017 595.7062,220.08460000000014 592.1082,227.01020000000017 C 582.0508,247.15800000000013 569.9537,273.23760000000016 546.8471,288.1512 C 539.0963,293.0245000000002 528.558,294.7092 528.5112,282.14380000000006 C 528.495,273.13070000000016 537.7856,255.27420000000006 545.6591,241.14340000000016 C 550.8023,232.07370000000014 557.5762,220.5101000000002 563.2027,210.5204000000001 C 565.1566,207.04030000000012 564.8689,202.46460000000002 557.7364,199.69840000000022 C 546.4672,195.6020000000001 538.3882,202.15800000000013 531.9675,211.8497000000002 C 528.431,217.2094000000002 525.6332,221.56190000000015 521.077,228.9593000000002 C 511.2125,246.68460000000005 492.1166,277.8453000000002 497.3355,299.13210000000004 C 502.2306,317.72950000000014 522.4266,319.10810000000015 537.3249,312.58220000000006 C 552.7106,305.08310000000006 562.0181,295.4485000000002 572.5111,284.4325000000001 C 568.4777,305.3022000000001 586.0485,336.3498000000002 632.1699,298.13030000000003 C 635.1783,295.51210000000015 639.3909,291.63530000000014 641.488,289.3392000000001 C 643.4785,322.6562000000001 677.2626,319.5276000000001 697.2137,310.0083000000002 C 710.0178,303.98580000000015 724.9612,291.44990000000007 734.2965,282.6319000000001 C 733.4994,303.62530000000015 740.3136,316.5575000000001 760.3316,316.2763000000002 C 773.1386,315.9716000000001 781.7377,311.22230000000013 789.7961,306.4048 C 799.1541,300.7433000000001 808.5129,292.52380000000016 813.5813,287.9480000000001 C 817.0033,320.37660000000005 851.9984,321.65020000000004 878.1508,308.5254000000002 C 887.811,303.77600000000007 894.9623,297.90470000000005 901.6257,292.46230000000014 C 902.4069,291.92920000000004 903.4929,292.24250000000006 903.187,293.20600000000013 C 902.2694,296.1333000000002 896.0879,307.26840000000016 898.7284,312.5091000000002 C 901.2498,317.5136 912.2547,314.7785000000001 915.874,313.59640000000013 C 919.6809,312.3560000000002 922.3948,310.5373000000002 924.7518,308.0816000000002 C 930.7814,301.54140000000007 934.3281,290.8765000000001 943.4798,276.8597000000002 C 954.6109,257.7012000000002 971.2397,245.365 987.4602,231.52630000000022 C 988.3585,232.33990000000017 989.8021,233.98450000000003 992.3888,235.54050000000007 C 998.7982,239.10680000000002 1005.8343,238.91140000000019 1012.235,237.10180000000014 C 1021.7993,234.30910000000017 1027.2882999999997,227.59580000000005 1029.0112,220.84730000000013 C 1031.6047,210.49610000000007 1025.0563,199.08850000000007 1010.7689,199.65130000000022 C 1002.4265,200.24880000000007 995.8759,205.41560000000004 991.4593,209.3416000000002 C 982.2019,217.58500000000004 973.9083,225.8162000000002 965.7556,233.44990000000007 C 964.7904,234.3465000000001 963.754,233.8624000000002 964.2047,232.7179000000001 C 968.2311,223.36260000000016 978.2158,209.54420000000005 977.2849,202.83720000000017 C 976.4617,199.75930000000017 972.7027,197.14350000000013 963.769,197.14350000000013 C 958.8912,197.16850000000022 954.3682,197.71350000000007 951.5137,199.70090000000005 C 946.1577,203.81400000000008 944.0113,210.92330000000015 939.7638,219.06040000000007 C 934.4367,229.71440000000007 929.7763,239.4050000000002 922.191,249.2528000000002 C 915.5971,258.08500000000004 909.1227,265.6898000000001 898.5297,274.1073000000001 C 887.4227,282.6835000000001 875.0775,291.0108 859.6052,290.6358 C 851.3923,290.2488000000001 846.1831,285.3003000000001 846.1831,276.60450000000014 C 853.3363,276.55780000000004 863.6173,275.03840000000014 870.1999,273.2194000000002 C 889.1379,267.77210000000014 909.9156,252.87720000000013 915.4811,232.38490000000002 C 919.3598,217.3217000000002 913.6661,201.1748 892.7691,199.65130000000022 C 876.405,198.76070000000004 860.4,204.34450000000015 846.4518,215.33400000000006 C 833.5091,226.3112000000001 823.8637,238.77480000000014 818.1388,255.02100000000019 C 815.6001,262.40020000000004 815.4626,267.24710000000005 813.5793,270.53700000000003 C 812.0483,272.9947000000002 808.8089,275.4393 802.4216,280.1980000000001 C 794.7133,285.99210000000016 776.3683,296.58090000000016 767.9401,289.5422000000001 C 762.2371,284.21350000000007 766.5925,272.67520000000013 771.2147,263.07590000000005 C 778.174,248.6241 785.5809,234.19960000000015 792.8269,219.88490000000002 C 793.3272,218.9574 793.8811,218.61910000000012 795.3548,218.6328000000001 C 801.4946,218.65960000000018 813.6777,218.7831000000001 820.9236,218.66580000000022 C 824.724,218.57940000000008 828.2092,218.2962 830.5948,215.0331000000001 C 832.9156,211.69010000000003 833.7691,207.02030000000013 833.7691,203.65130000000022 C 833.5704,200.09400000000005 831.4574,198.93250000000012 827.7917,198.95850000000019 L 804.4875,199.19010000000003 C 809.2103,190.26430000000005 813.9243,182.05330000000004 817.2147,175.51570000000015 C 819.7095,170.62970000000018 820.7186,166.73940000000016 817.8454,164.39340000000016 C 814.4753,161.7378000000001 805.216,160.1786000000002 799.2388,160.7518 C 796.284,161.10580000000004 793.6747,162.10120000000006 791.3078,164.75910000000022 C 788.7648,167.6944000000001 786.2295,172.62920000000008 783.8427,176.9869000000001 C 780.0199,184.3036000000002 775.3992,192.32520000000022 771.6869,199.20230000000015 L 712.2223,199.35420000000022 C 717.8681,188.5693000000001 726.7011,173.9126000000001 727.1481,168.5286000000001 C 727.3298,164.2610000000002 724.0173,161.27360000000022 710.5031,160.70810000000006 C 706.0561,160.5558000000001 702.8402,161.16560000000004 699.7966,164.28740000000016 C 696.2905,168.04960000000005 693.4116,173.1817000000001 691.3355,176.91290000000004 C 688.0827,183.19680000000017 685.3133,188.98390000000018 680.6517,198.97950000000014" fill-rule="evenodd"/></g>
     <g id="wmSticks"><path d="M 381.8112,386.86660000000006 C 382.1862,442.2735 450.0173,457.9235000000001 428.1103,503.3686 C 420.3632,517.5497000000001 407.8327,526.1401000000001 389.5299,527.1011000000001 C 374.0236,527.7573000000001 357.3601,523.3234000000001 349.7607,505.82370000000014 C 341.7817,486.75930000000017 348.7646,466.2968000000001 366.2235,453.5210000000002 C 370.5282,450.3343000000002 376.5302,447.71090000000004 376.5067,443.9136000000001 C 376.3426,436.6169000000002 351.2186,432.9480000000001 330.9755,446.0308 C 302.9309,464.79840000000013 300.1371,506.5289 331.0129,529.6415000000001 C 355.6664,548.4865000000001 397.7371,548.6608000000001 426.9776,534.6033000000001 C 459.1973,518.9620000000001 476.689,485.1994000000002 461.4854,451.19240000000013 C 448.4169,424.1753000000001 415.7323,402.2366000000002 418.1318,374.8434000000002 C 420.2311,357.0425 436.6911,348.6119000000001 452.7213,349.7925 C 460.2767,350.3326000000002 468.3849,352.98160000000007 476.0719,360.7468000000001 C 496.11,382.1376 474.569,403.8668 485.8112,403.8668 C 506.649,403.6795000000002 525.054,365.06280000000015 498.172,343.1388000000002 C 483.8562,332.1186 462.6043,330.9529 449.2335,331.6328000000001 C 417.3117,333.60180000000014 382.233,353.1437000000001 381.8112,386.86660000000006" fill-rule="evenodd"/>
@@ -157,8 +157,8 @@
 const $$ = (s) => gsap.utils.toArray(s);
 
 gsap.set("#badgeMove", { autoAlpha: 0, scale: 0.92, transformOrigin: "50% 50%" });
-gsap.set(["#wmButter", "#wmSticks"], { autoAlpha: 0, y: 85 });
-gsap.set(".golfLetter", { autoAlpha: 0, y: 45 });
+gsap.set(["#wmButter", "#wmSticks"], { autoAlpha: 0, y: 40 });
+gsap.set(".golfLetter", { autoAlpha: 0, y: 24 });
 gsap.set(".drop", { autoAlpha: 0 });
 gsap.set("#coatWave", { y: -185 });
 gsap.set(["#pondBack", "#pondFront", "#tide"], { y: 920 });
@@ -210,6 +210,7 @@ $$(".rRun, .gRun").forEach((r) => {
 tl.addLabel("consume", 3.3)
   // the coat swallows the whole ball
   .to("#coatWave", { y: 165, duration: 0.9, ease: "power1.inOut" }, "consume")
+  .to(".rCoat, .gCoat", { attr: { rx: 204, ry: 204 }, duration: 0.6, ease: "sine.inOut" }, "consume+=0.3")
   // pond arrives to receive the cascade
   .to("#pondBack", { y: 585, duration: 1.3, ease: "power1.inOut" }, "consume+=0.1")
   .to("#pondFront", { y: 606, duration: 1.3, ease: "power1.inOut" }, "consume+=0.22")
@@ -240,16 +241,15 @@ tl.addLabel("tideUp", 5.3)
 
 // ---- beat 5: wordmark rises alone, centered (6.5 - 8.3s)
 tl.addLabel("type", 6.7)
-  .to("#wmButter", { autoAlpha: 1, y: 0, duration: 1.35, ease: "sine.out" }, "type")
-  .to("#wmSticks", { autoAlpha: 1, y: 0, duration: 1.35, ease: "sine.out" }, "type+=0.18")
-  .to(".golfLetter", { autoAlpha: 1, y: 0, duration: 1.0, ease: "sine.out", stagger: 0.09 }, "type+=0.5");
+  .to("#wmButter", { autoAlpha: 1, y: 0, duration: 1.6, ease: "sine.out" }, "type")
+  .to("#wmSticks", { autoAlpha: 1, y: 0, duration: 1.6, ease: "sine.out" }, "type+=0.15")
+  .to(".golfLetter", { autoAlpha: 1, y: 0, duration: 1.2, ease: "sine.out", stagger: 0.1 }, "type+=0.45");
 
 // ---- beat 6: breathing hold (8.5 - 9.4s)
-tl.to("#wmMove", { scale: 1.007, transformOrigin: "50% 50%", duration: 0.5, ease: "sine.inOut" }, 8.8)
-  .to("#wmMove", { scale: 1.0, duration: 0.5, ease: "sine.inOut" }, 9.3);
+tl.to({}, { duration: 0.1 }, 9.7);  // quiet hold to the end
 
 // slow camera push, whole film
-tl.to("svg", { scale: 1.0, duration: 9.8, ease: "sine.out" }, 0);
+tl.to("svg", { scale: 1.0, duration: 5.5, ease: "sine.out" }, 0);
 
 // reduced motion: land on the finished lockup immediately
 if (window.matchMedia("(prefers-reduced-motion: reduce)").matches) {

diff --git a/tools/build_gsap_intro.py b/tools/build_gsap_intro.py
@@ -52,7 +52,7 @@ def molten_members(cls):
     return f"""
     <g class="{cls}PatArt">{paths("gold", keep_fill=False)}</g>
     <g clip-path="url(#coatClip)">
-      <ellipse class="{cls}Coat" cx="{BALL_CX}" cy="{BALL_CY}" rx="{BALL_R + 15}" ry="{BALL_R + 15}"/>
+      <ellipse class="{cls}Coat" cx="{BALL_CX}" cy="{BALL_CY}" rx="{BALL_R - 10}" ry="{BALL_R - 10}"/>
     </g>
     {runnels}"""
 
@@ -140,7 +140,7 @@ html = f"""<!doctype html>
   </g>
 
   <!-- wordmark: the sole hero of the final act, centered -->
-  <g id="wmMove" transform="translate(518.8,280.3) scale(0.44)" fill="{CREAM}">
+  <g id="wmMove" transform="translate(538.0,291.8) scale(0.41)" fill="{CREAM}">
     <g id="wmButter">{paths("wm_butter", keep_fill=False)}</g>
     <g id="wmSticks">{paths("wm_sticks", keep_fill=False)}</g>
     <g id="wmGolf">{paths("wm_golf", keep_fill=False, cls="golfLetter")}</g>
@@ -154,8 +154,8 @@ html = f"""<!doctype html>
 const $$ = (s) => gsap.utils.toArray(s);
 
 gsap.set("#badgeMove", {{ autoAlpha: 0, scale: 0.92, transformOrigin: "50% 50%" }});
-gsap.set(["#wmButter", "#wmSticks"], {{ autoAlpha: 0, y: 85 }});
-gsap.set(".golfLetter", {{ autoAlpha: 0, y: 45 }});
+gsap.set(["#wmButter", "#wmSticks"], {{ autoAlpha: 0, y: 40 }});
+gsap.set(".golfLetter", {{ autoAlpha: 0, y: 24 }});
 gsap.set(".drop", {{ autoAlpha: 0 }});
 gsap.set("#coatWave", {{ y: -185 }});
 gsap.set(["#pondBack", "#pondFront", "#tide"], {{ y: 920 }});
@@ -207,6 +207,7 @@ $$(".rRun, .gRun").forEach((r) => {{
 tl.addLabel("consume", 3.3)
   // the coat swallows the whole ball
   .to("#coatWave", {{ y: 165, duration: 0.9, ease: "power1.inOut" }}, "consume")
+  .to(".rCoat, .gCoat", {{ attr: {{ rx: 204, ry: 204 }}, duration: 0.6, ease: "sine.inOut" }}, "consume+=0.3")
   // pond arrives to receive the cascade
   .to("#pondBack", {{ y: 585, duration: 1.3, ease: "power1.inOut" }}, "consume+=0.1")
   .to("#pondFront", {{ y: 606, duration: 1.3, ease: "power1.inOut" }}, "consume+=0.22")
@@ -237,16 +238,15 @@ tl.addLabel("tideUp", 5.3)
 
 // ---- beat 5: wordmark rises alone, centered (6.5 - 8.3s)
 tl.addLabel("type", 6.7)
-  .to("#wmButter", {{ autoAlpha: 1, y: 0, duration: 1.35, ease: "sine.out" }}, "type")
-  .to("#wmSticks", {{ autoAlpha: 1, y: 0, duration: 1.35, ease: "sine.out" }}, "type+=0.18")
-  .to(".golfLetter", {{ autoAlpha: 1, y: 0, duration: 1.0, ease: "sine.out", stagger: 0.09 }}, "type+=0.5");
+  .to("#wmButter", {{ autoAlpha: 1, y: 0, duration: 1.6, ease: "sine.out" }}, "type")
+  .to("#wmSticks", {{ autoAlpha: 1, y: 0, duration: 1.6, ease: "sine.out" }}, "type+=0.15")
+  .to(".golfLetter", {{ autoAlpha: 1, y: 0, duration: 1.2, ease: "sine.out", stagger: 0.1 }}, "type+=0.45");
 
 // ---- beat 6: breathing hold (8.5 - 9.4s)
-tl.to("#wmMove", {{ scale: 1.007, transformOrigin: "50% 50%", duration: 0.5, ease: "sine.inOut" }}, 8.8)
-  .to("#wmMove", {{ scale: 1.0, duration: 0.5, ease: "sine.inOut" }}, 9.3);
+tl.to({{}}, {{ duration: 0.1 }}, 9.7);  // quiet hold to the end
 
 // slow camera push, whole film
-tl.to("svg", {{ scale: 1.0, duration: 9.8, ease: "sine.out" }}, 0);
+tl.to("svg", {{ scale: 1.0, duration: 5.5, ease: "sine.out" }}, 0);
 
 // reduced motion: land on the finished lockup immediately
 if (window.matchMedia("(prefers-reduced-motion: reduce)").matches) {{
